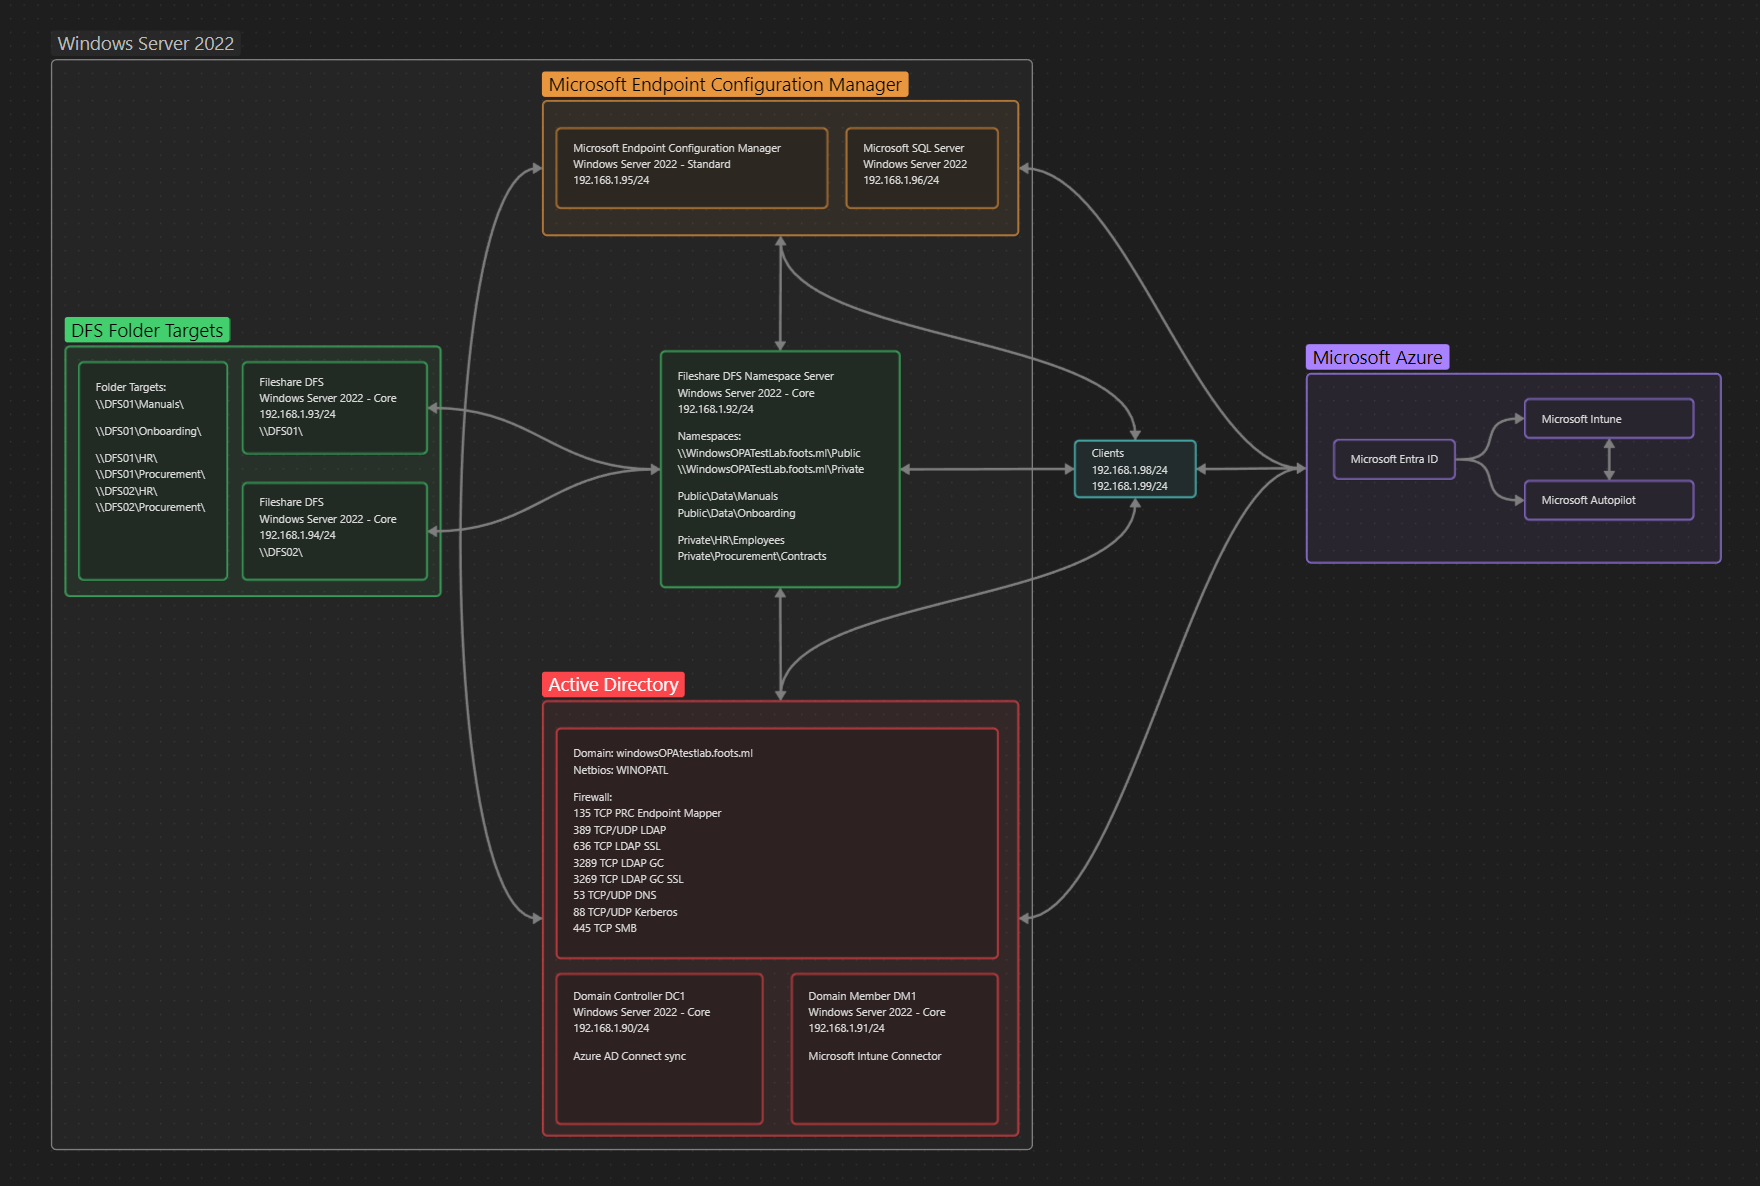
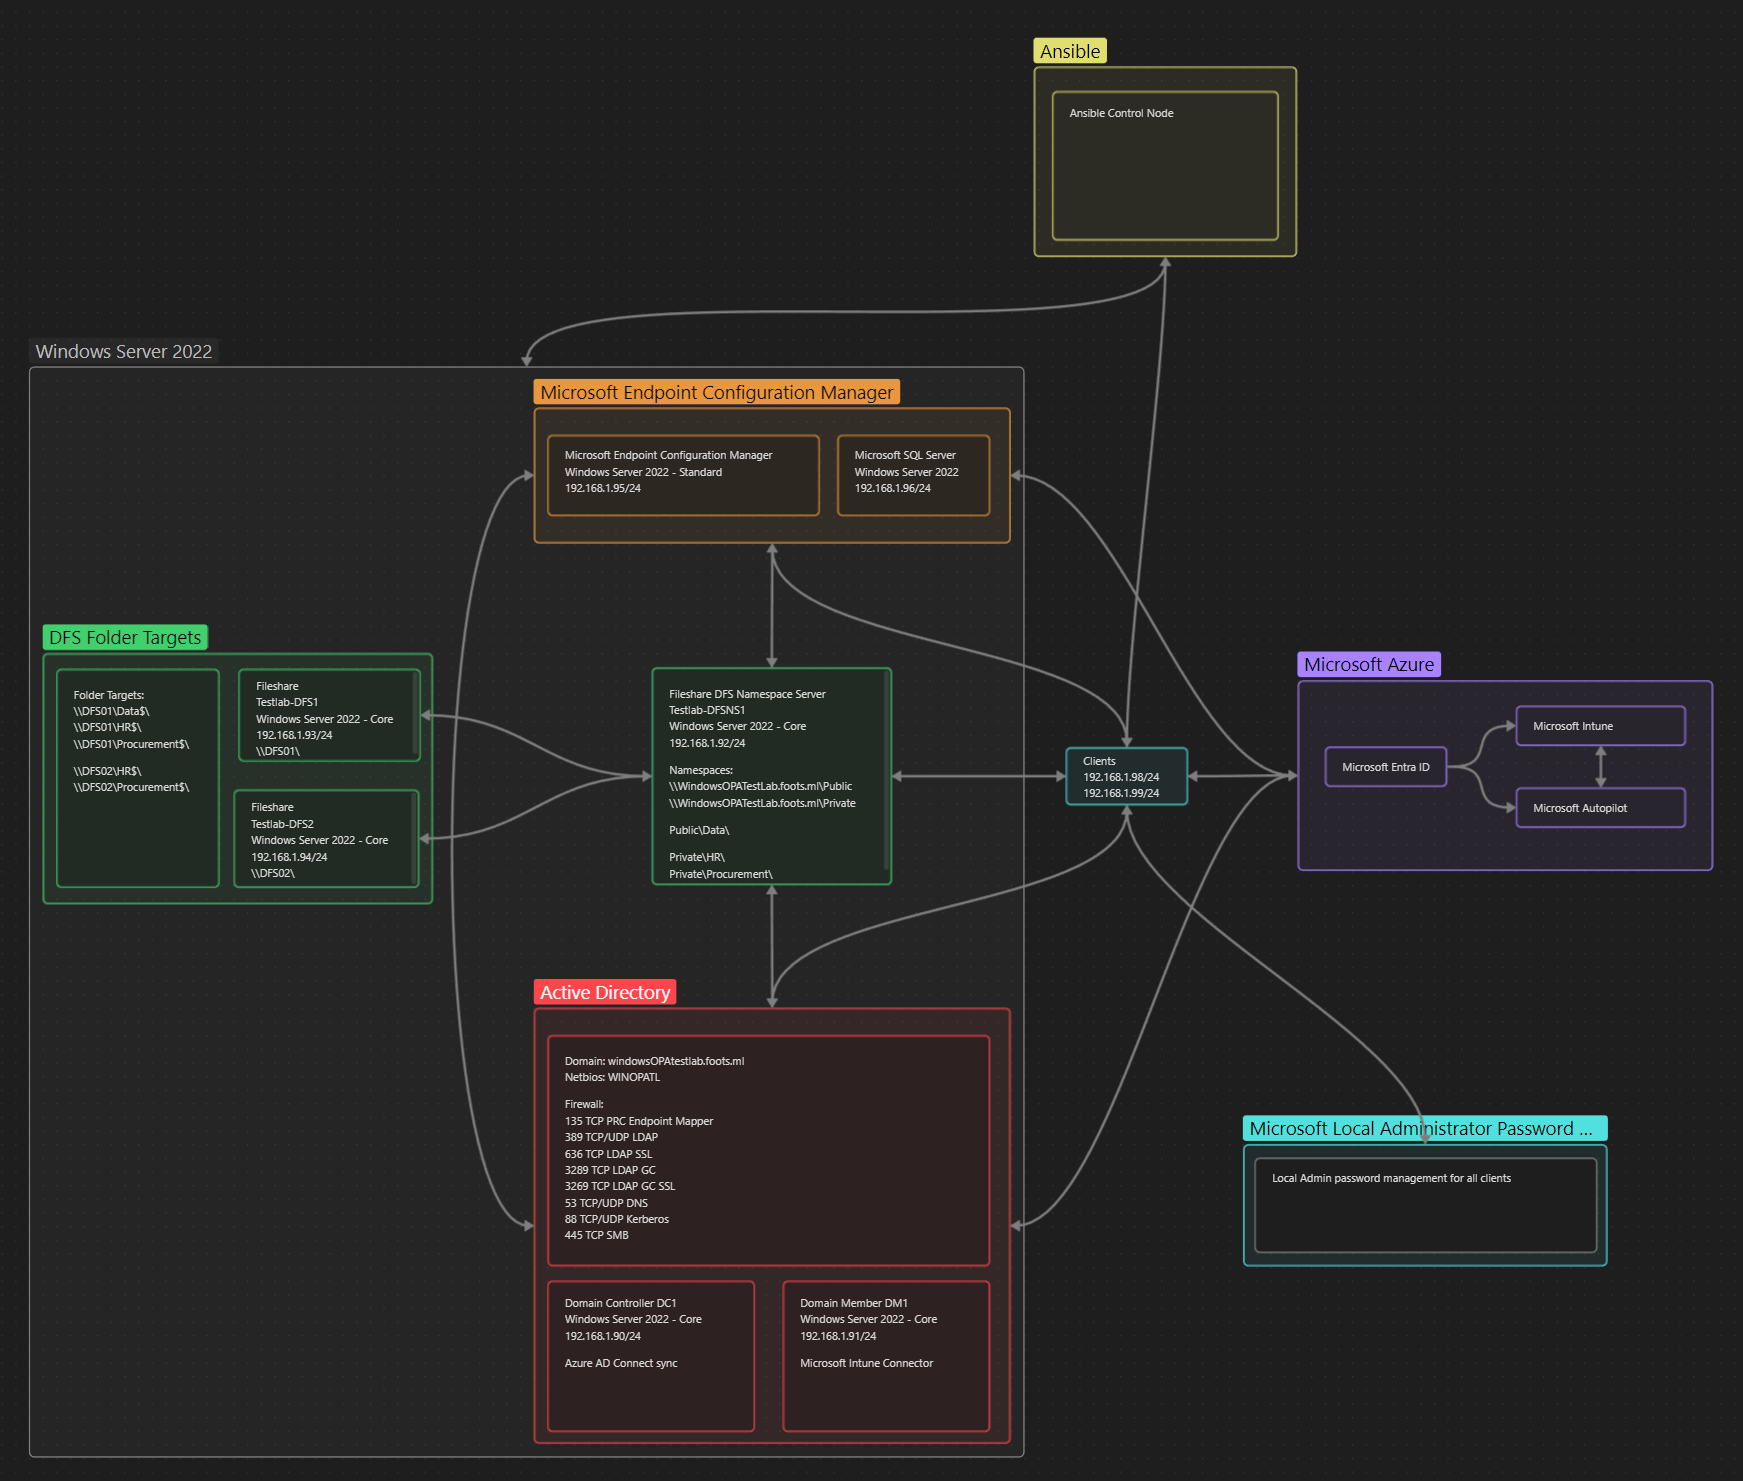
Updated HLD and .md's

diff --git a/TRUSTEDHOSTS.md b/TRUSTEDHOSTS.md
@@ -71,7 +71,7 @@ $List = (Get-Item WSMan:\localhost\Client\TrustedHosts).Value
 $List -match ',?10.10.10.200'
 # We check for ,192.168.88.102 in case the IP address we are looking for is not the only IP address in the list.
 # Otherwise the preceeding ',' will be left in the list which could cause problems. 
-# This could also be a computer name instead of an IP address.
+# This can also be a computer name instead of an IP address.
 $List = $List.Replace($Matches.0, '') # Replace the found string with nothing.
 Set-Item WSMan:\localhost\Client\TrustedHosts -Value $List # Set the TrustedHosts list to match our edited list.
 

diff --git a/README.md b/README.md
@@ -30,5 +30,9 @@
 - [ ] Setup DFS replication for DFS Folder 'Private'
 - [ ] Deploy TestLab-DFSN2
 
+### Remote PowerShell access
+- [ ] Enable WinRM HTTPS
+- [ ] Configure WinRM listeners for specific devices/IP addresses only
+
 ### TrustedHosts
-- [ ] IP/Device removal script will leave a comma if the first value in the list is deleted.
+- [ ] IP/Device removal script will leave a comma if the first value in the list is deleted. -> Add an if statement to check for both situations.
